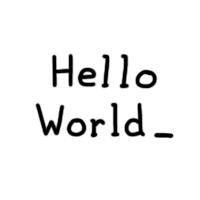
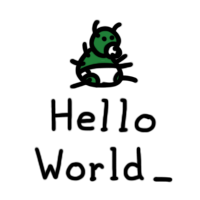
updated navi again

diff --git a/_includes/navigation.html b/_includes/navigation.html
@@ -30,7 +30,7 @@
             <script>
                 document.write("<a href=\"");
                 document.write(posts[posts.length - 1]);
-                document.write("\"><img title='how it all began' src='/assets/images/navigation/helloworld.png'/></a>");
+                document.write("\"><img title='how it all began' src='/assets/images/navigation/bughelloworld.png?v={{site.version}}'/></a>");
             </script>
         </div>
         {% if page.previous.url %}
@@ -61,7 +61,7 @@
             <script>
                 document.write("<a href=\"");
                 document.write(posts[0]);
-                document.write("\"><img title='fresh out of the oven' src='/assets/images/navigation/deadline.png'/></a>");
+                document.write("\"><img title='fresh out of the oven' src='/assets/images/navigation/bugdeadline.png?v={{site.version}}'/></a>");
             </script>
         </div>
        
